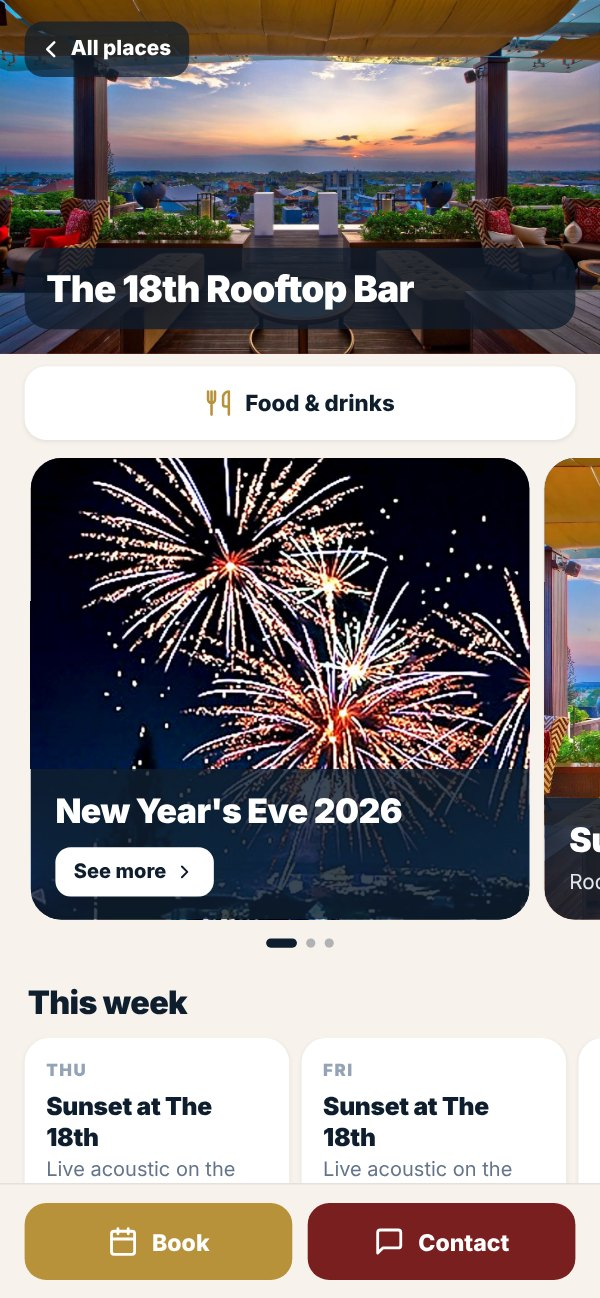
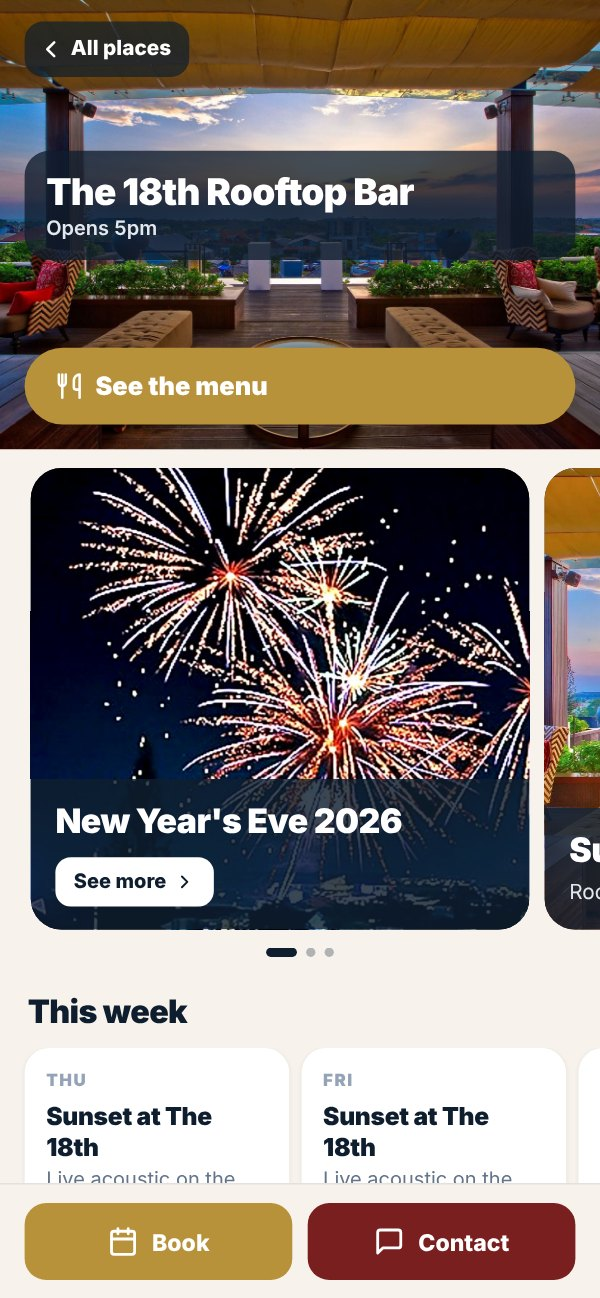
Membership page: menu screenshots with the new See the menu button
Claude-Session: https://claude.ai/code/session_01PDrfwPm1ywymGCuyADBdVM

diff --git a/membership/index.html b/membership/index.html
@@ -495,7 +495,7 @@ h2{letter-spacing:-1px;line-height:1.1}
 
 <section class="feat sand" id="menus"><div class="wrap">
   <div class="copy"><div class="kick">Menus</div><h2>Food and drinks. One tap.</h2><p class="lead">Your menus open right inside the app. No downloads, on every phone.</p></div>
-  <div class="phones rv"><div><div class="phone"><img src="/img/club/g-menu-btn.jpg" alt="Food and drinks button on the place page" loading="lazy"></div><span class="cap">Tap Food &amp; drinks</span></div><div><div class="phone"><img src="/img/club/g-menu.jpg" alt="The menu opens inside the app" loading="lazy"></div><span class="cap">Opens right there</span></div><div><div class="phone"><img src="/img/club/g-menu2.jpg" alt="Scrolling through the menu" loading="lazy"></div><span class="cap">Scroll the whole menu</span></div></div>
+  <div class="phones rv"><div><div class="phone"><img src="/img/club/g-menu-btn.jpg" alt="Food and drinks button on the place page" loading="lazy"></div><span class="cap">Tap See the menu</span></div><div><div class="phone"><img src="/img/club/g-menu.jpg" alt="The menu opens inside the app" loading="lazy"></div><span class="cap">Opens right there</span></div><div><div class="phone"><img src="/img/club/g-menu2.jpg" alt="Scrolling through the menu" loading="lazy"></div><span class="cap">Scroll the whole menu</span></div></div>
   <div class="swipe">SWIPE FOR MORE &rarr;</div>
 </div></section>
 
